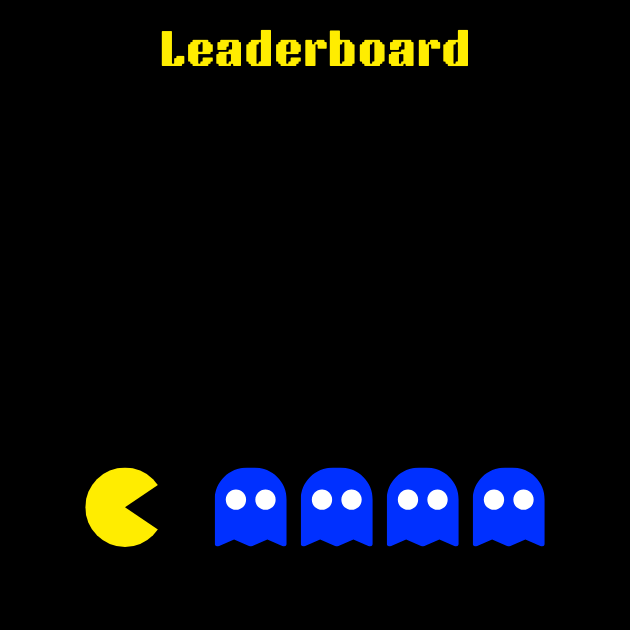
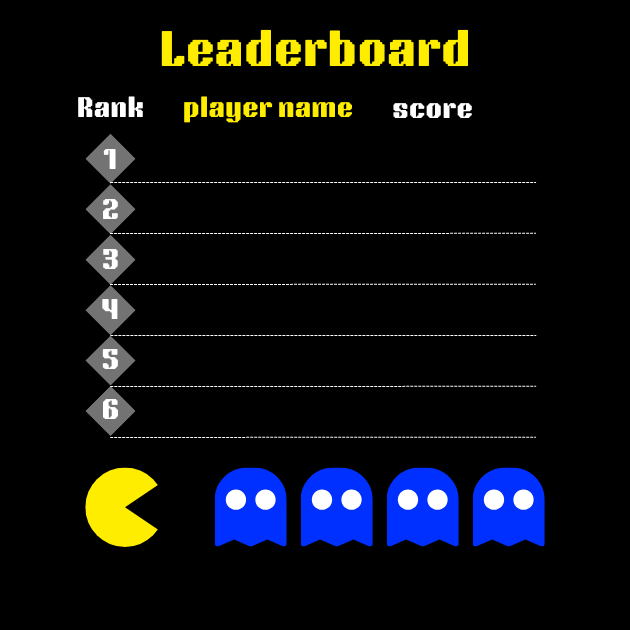
modify leaderboard

Changed region(s): [[0.1206, 0.1508, 0.2413, 0.6937], [0.2714, 0.1508, 0.573, 0.2111], [0.6032, 0.1508, 0.754, 0.2111]]

diff --git a/game/menu.py b/game/menu.py
@@ -171,7 +171,7 @@ def show_leaderboard(screen, font, screen_width, screen_height):
     try:
         with open("scores.json", "r") as f:
             records = json.load(f)
-            records = sorted(records, key=lambda x: x["score"], reverse=True)[:10]  # 按分數降序取前 10
+            records = sorted(records, key=lambda x: x["score"], reverse=True)[:6]  # 按分數降序取前 10
     except FileNotFoundError:
         pass  # 若檔案不存在，顯示空排行榜
 
@@ -190,8 +190,8 @@ def show_leaderboard(screen, font, screen_width, screen_height):
         screen.blit(load_leaderboard, (0, 0))
 
         for i, record in enumerate(records):
-            text = font.render(f"{i+1}. {record['name']}: {record['score']} (Seed: {record['seed']}, Time: {int(record['time']//60):02d}:{int(record['time']%60):02d})", True, WHITE)
-            screen.blit(text, (screen_width // 2 - text.get_width() // 2, 100 + i * 40))  # 顯示每條記錄
+            text = font.render(f"    {record['name']}: {record['score']} (Seed: {record['seed']}, Time: {int(record['time']//60):02d}:{int(record['time']%60):02d})", True, WHITE)
+            screen.blit(text, (screen_width // 5, 150 + i * 50))  # 顯示每條記錄
         back_text = font.render("Press ESC to return", True, WHITE)
         screen.blit(back_text, (screen_width // 2 - back_text.get_width() // 2, screen_height - 50))  # 提示返回
         pygame.display.flip()
